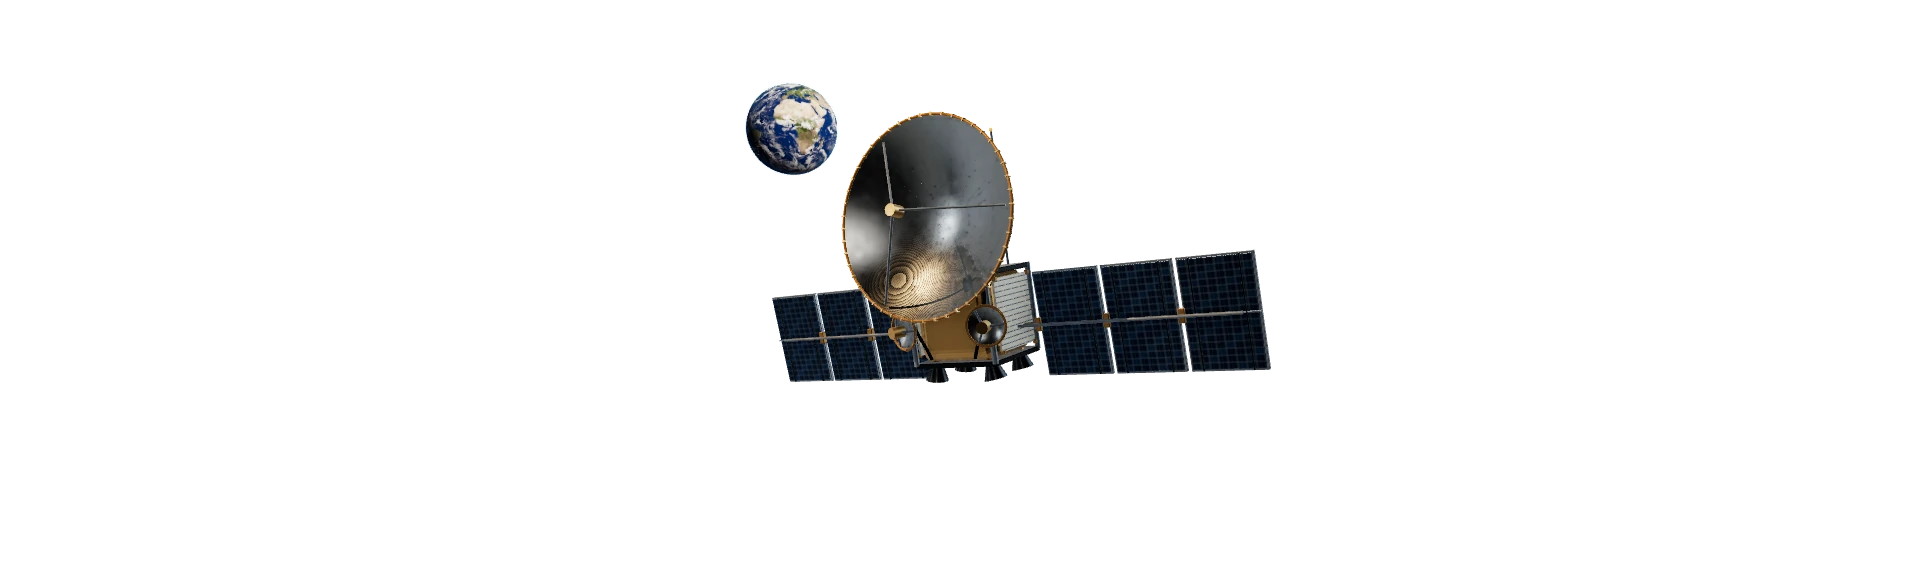
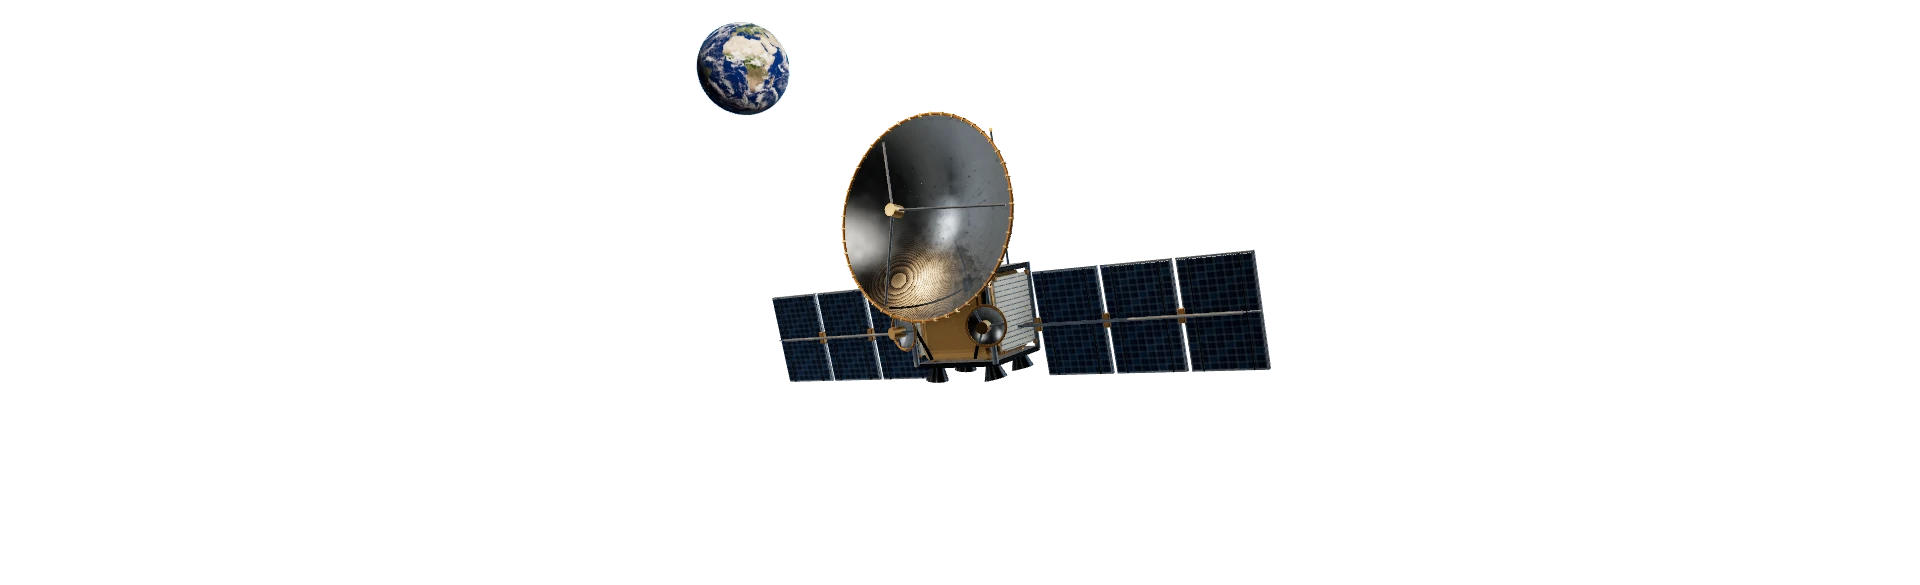
Give Earth more space around the contact satellite

Changed region(s): [[0.3438, 0.0308, 0.4375, 0.3077]]

diff --git a/src/scripts/study-worlds.ts b/src/scripts/study-worlds.ts
@@ -7,7 +7,7 @@
 export const studyWorlds = {
     workshop: { position: [-300, -155, -1400], radius: 65 },
     observatory: { position: [-420, 245, -1600], radius: 45 },
-    relay: { position: [-280, 220, -1500], radius: 75 },
+    relay: { position: [-360, 320, -1500], radius: 75 },
 } satisfies Record<
     string,
     { position: [number, number, number]; radius: number }
